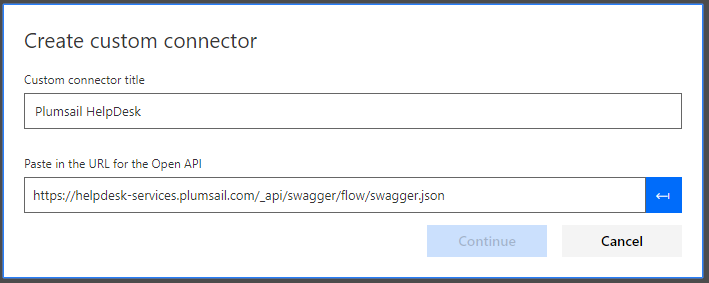
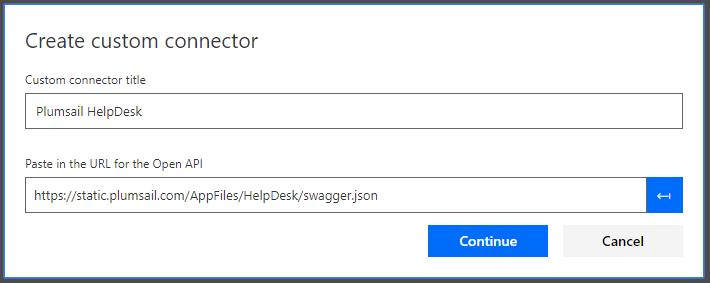
swagger link fixed

Changed region(s): [[0.0, 0.0283, 0.6206, 0.9894], [0.5896, 0.7915, 0.7757, 0.9329], [0.8688, 0.8481, 0.8999, 0.8763]]

diff --git a/Online/API/create-custom-connector.rst b/Online/API/create-custom-connector.rst
@@ -16,7 +16,7 @@ Open Microsoft Flow account then navigate to *'Custom Connectors'* and click *'C
 
 Fill in name *'Plumsail HelpDesk'* and swagger definition URL:
 
-  https://helpdesk-services.plumsail.com/_api/swagger/flow/swagger.json
+  https://static.plumsail.com/AppFiles/HelpDesk/swagger.json
 
 .. image:: ../_static/img/connector-from-url-form.png
    :alt: Connector from URL form
